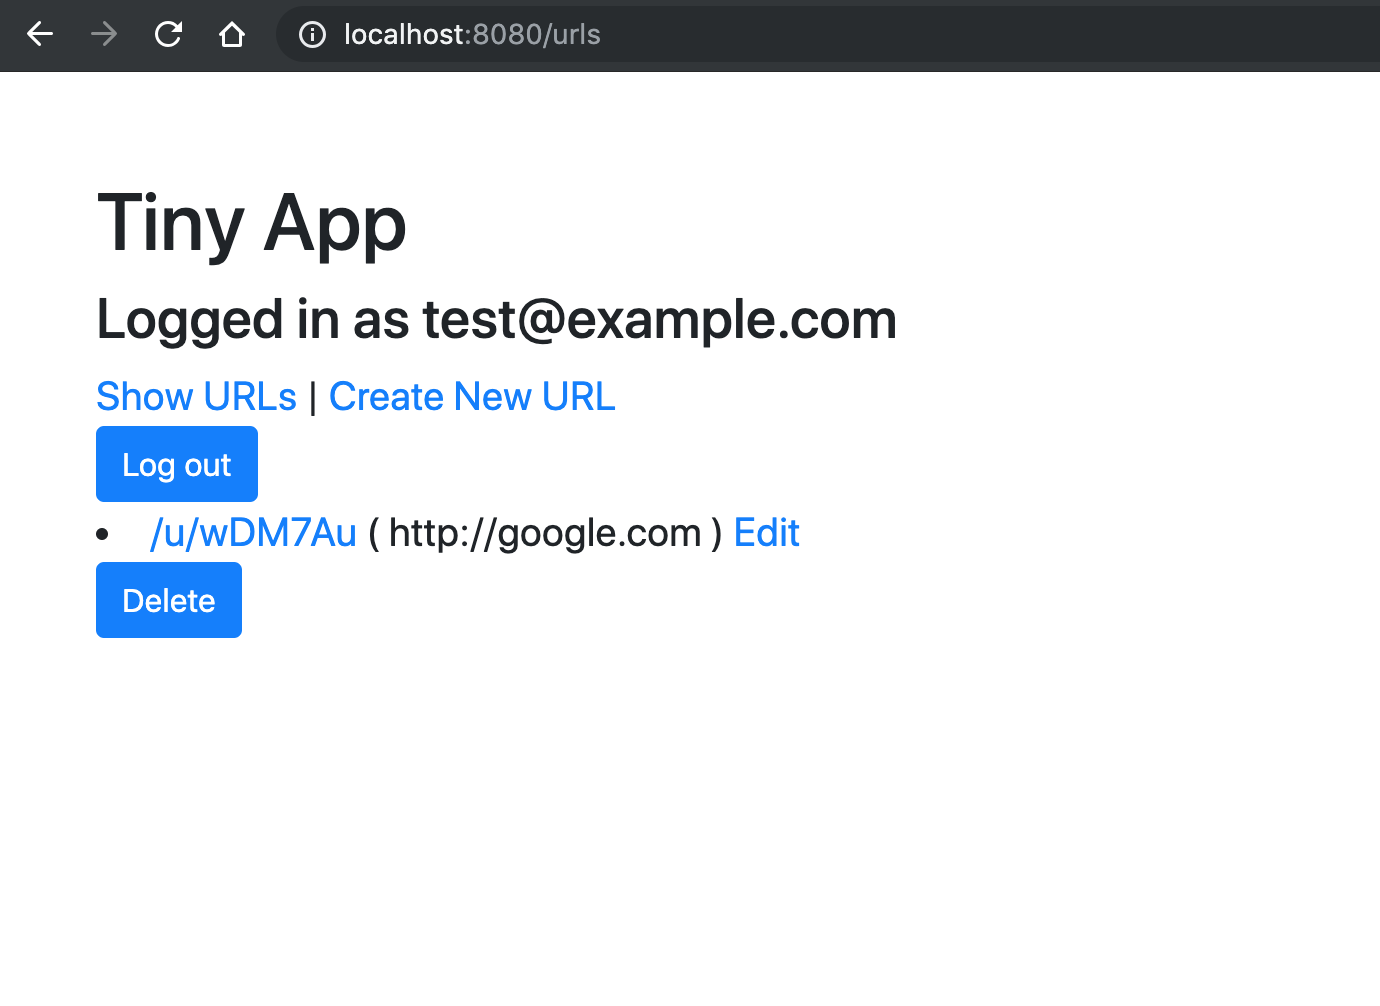
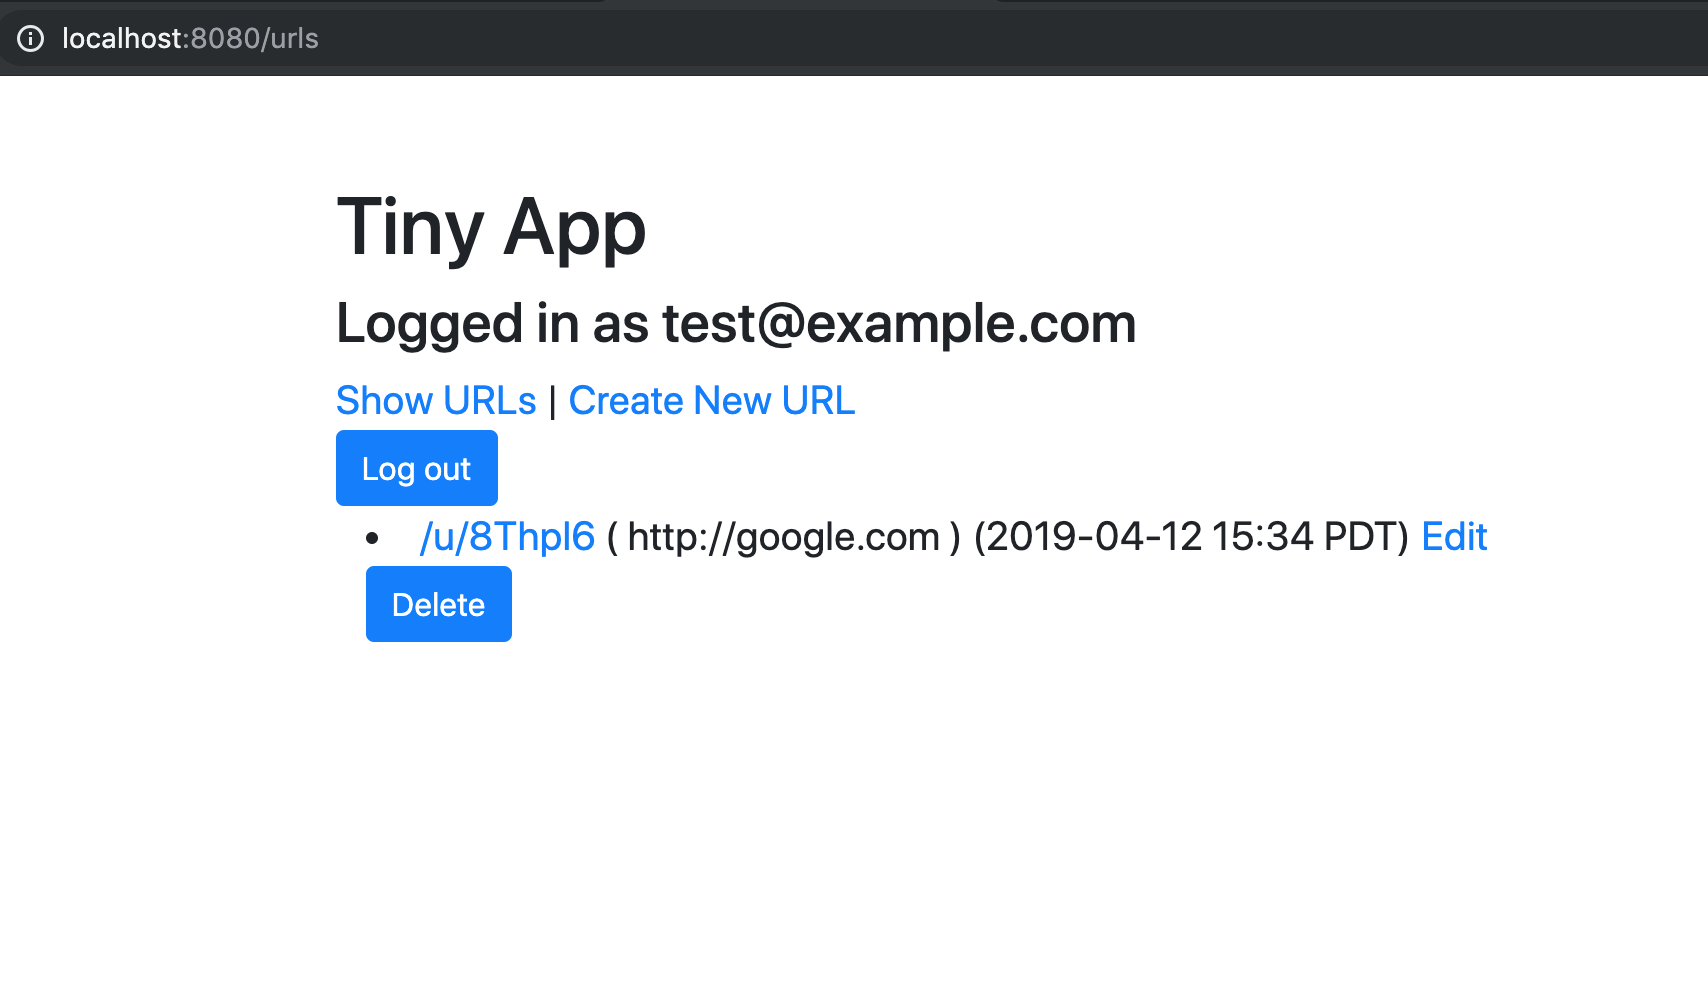
update README and error handling

Changed region(s): [[0.0623, 0.1871, 0.8725, 0.6549], [0.0, 0.0, 1.0, 0.0936]]

diff --git a/server.js b/server.js
@@ -64,7 +64,6 @@ app.get('/urls', (request, response) => {
     urls: urls,
     urlDatabase: urlDatabase
   };
-  console.log(urlDatabase);
 
   response.render('urls_index', templateVars);
 });
@@ -192,7 +191,7 @@ app.post('/register', (request, response) => {
   }
 
   if (functions.checkEmailExists(email)) {
-    return response.status(400).render('error_page', {error: 400, message: 'Your email does not exist'});
+    return response.status(400).render('error_page', {error: 400, message: 'Your email exists in database'});
   }
 
   const user_id = functions.generateRandomString();

diff --git a/README.md b/README.md
@@ -38,4 +38,6 @@ A full stack web application built with Node and Express that allows users to sh
 - bcrypt
 - body-parser
 - cookie-session
+- moment
+- moment-timezone
 
